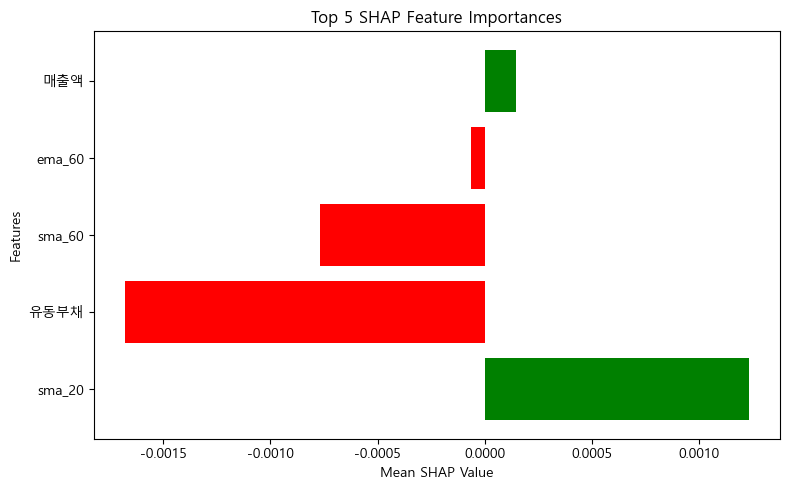
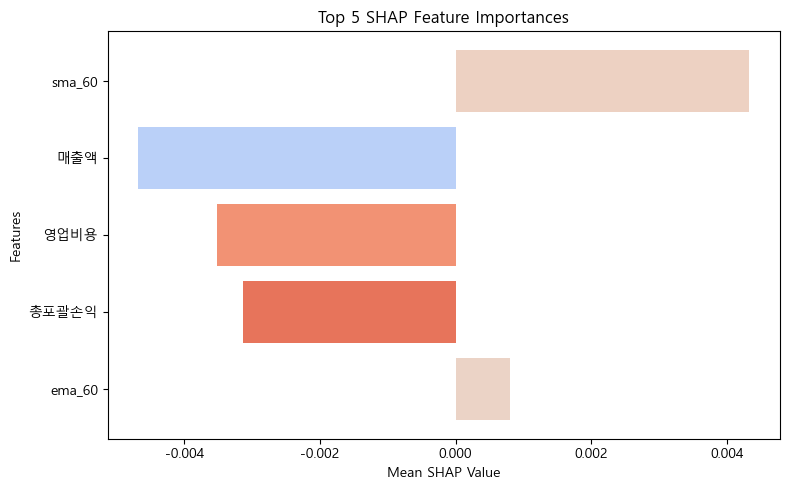
color

diff --git a/SHAP_explanation.py b/SHAP_explanation.py
@@ -73,14 +73,19 @@ def run_shap_analysis(code, data, output_file='result/SHAP_bar_result.png'):
 
     top_features = shaplist[:5]  # 상위 5개 피처 이름
 
+
     top_shap_values = [mean_shap_values[X.columns.get_loc(feature)] for feature in top_features]  # top_features에 맞는 SHAP 값 추출
     
+
+    # SHAP 값에 따른 색상 계산
+    feature_colors = calculate_feature_colors(top_features, shap_values, X, mean_shap_values)
+
     # SHAP 바 그래프 저장
     plt.figure(figsize=(8, 5))  # 저장을 위한 전체 그래프 크기 설정
     plt.barh(
         top_features[::-1],
-        top_shap_values,
-        color=["green" if v > 0 else "red" for v in top_shap_values],
+        top_shap_values[::-1],
+        color = feature_colors[::-1],
     )
     plt.xlabel("Mean SHAP Value")
     plt.ylabel("Features")
@@ -150,4 +155,44 @@ def show(code, start_date, end_date):
     return output_bar, output_chart
 
 
-# show("005930", "2022-01-01", "2023-12-31")
+def calculate_color_from_values(feature_values, shap_values):
+    import numpy as np
+    import matplotlib.pyplot as plt
+
+    norm = plt.Normalize(vmin=np.min(feature_values), vmax=np.max(feature_values))  # 정규화
+
+    # 양수와 음수 SHAP 값 분리
+    positive_mask = shap_values > 0
+    negative_mask = shap_values < 0
+
+    # 평균값 계산
+    positive_mean = feature_values[positive_mask].mean() if np.any(positive_mask) else 0
+    negative_mean = feature_values[negative_mask].mean() if np.any(negative_mask) else 0
+
+    # 평균값에 따라 색상 결정
+    positive_color = plt.cm.coolwarm(norm(positive_mean))
+    negative_color = plt.cm.coolwarm(norm(negative_mean))
+
+    return positive_color, negative_color
+
+def calculate_feature_colors(top_features, shap_values, X, mean_shap_values):
+    feature_colors = []
+
+    for feature in top_features:
+        feature_index = X.columns.get_loc(feature)
+        feature_shap_values = shap_values.values[:, feature_index]
+        feature_values = X.iloc[:, feature_index].values
+
+        # 양수와 음수 색상 계산
+        positive_color, negative_color = calculate_color_from_values(feature_values, feature_shap_values)
+
+        if mean_shap_values[feature_index] > 0:
+            feature_colors.append(positive_color)
+        else:
+            feature_colors.append(negative_color)
+    
+    return feature_colors
+
+
+
+# show("036570", "2017-01-01", "2023-12-31")
